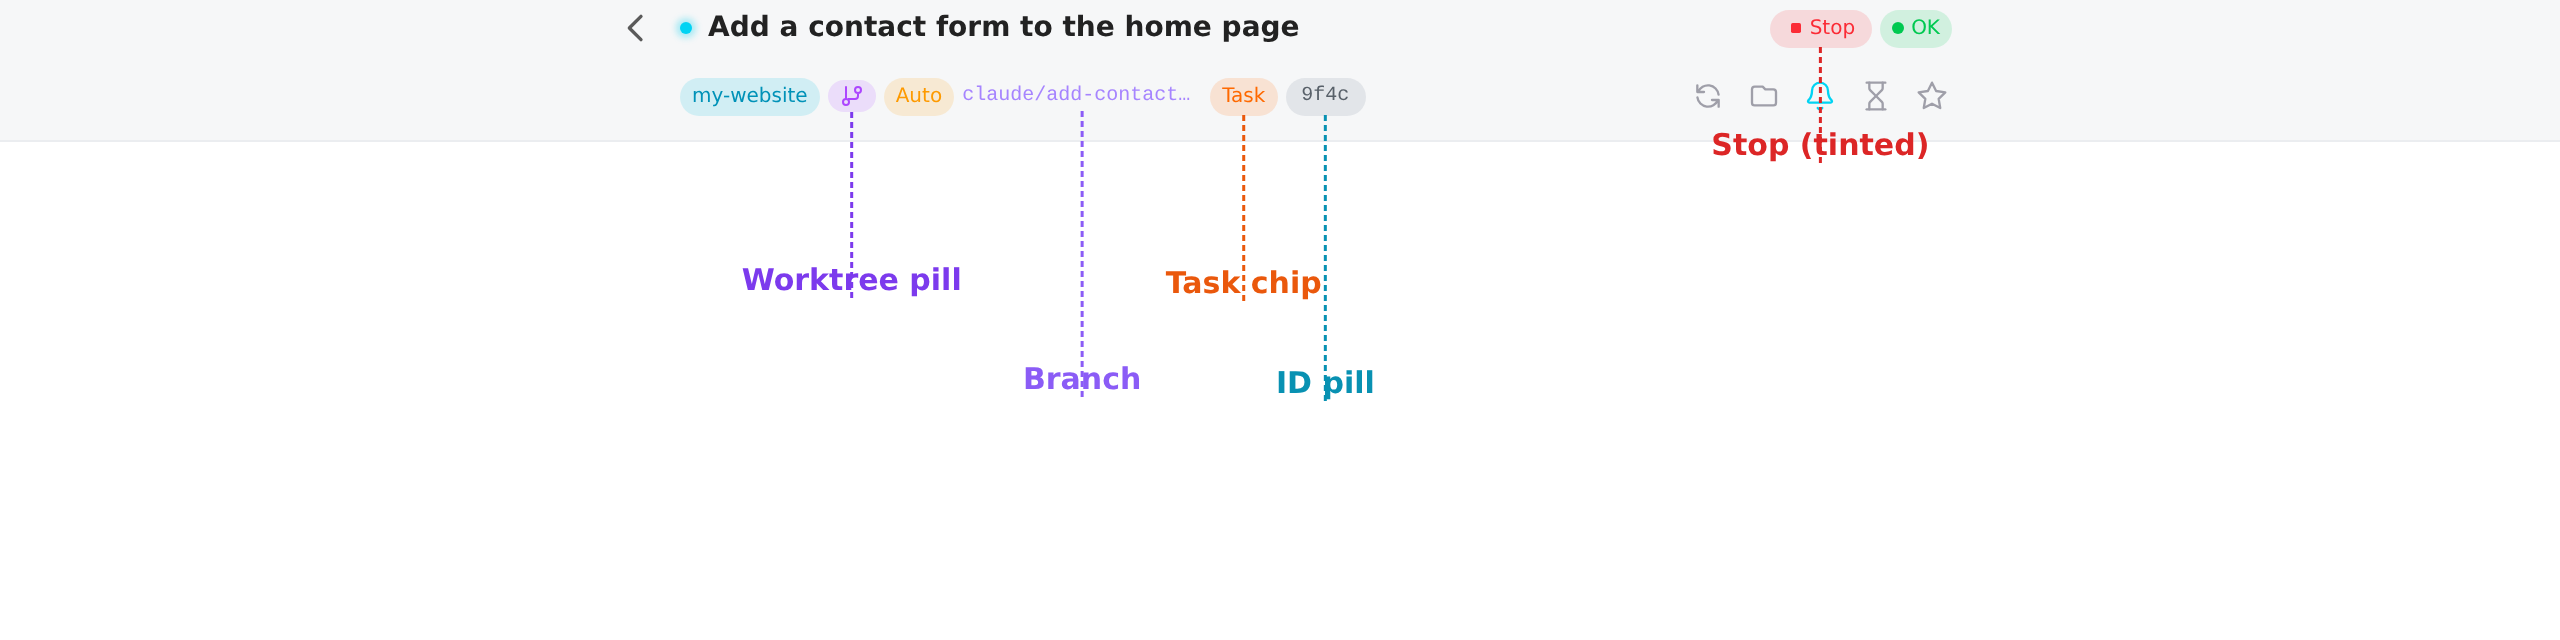
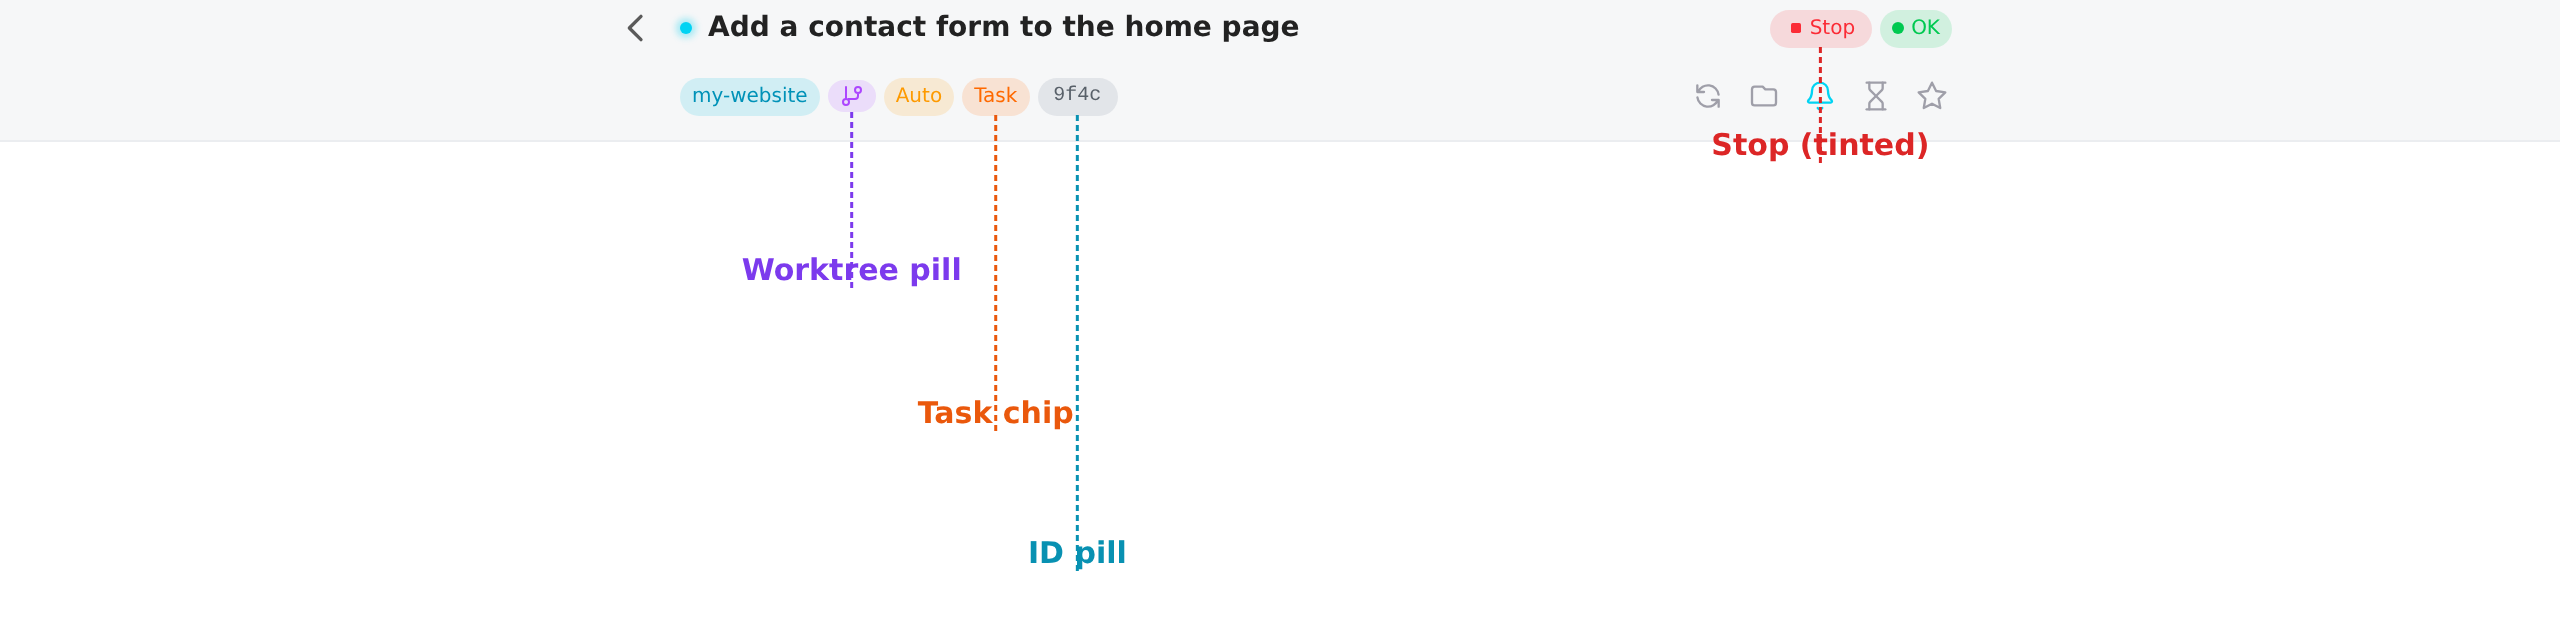
[frontend] chat header: drop branch text from row 2 tag strip
Branch name was rendered as a violet truncated text next to the worktree
pill, adding noise without value (the worktree pill already implies the
branch and the project tab shows full git status). Removed the
`{agent.branch && ...}` block from `AgentChatPage` row 2.

Updated README + getting-started (en/zh) tag-strip descriptions and
re-shot the annotated chat-header screenshot to drop the Branch label.

diff --git a/frontend/src/pages/AgentChatPage.jsx b/frontend/src/pages/AgentChatPage.jsx
@@ -3717,11 +3717,6 @@ export default function AgentChatPage({ theme, onToggleTheme, agentId: propAgent
                   Auto
                 </span>
               )}
-              {agent.branch && (
-                <span className="shrink-0 text-[10px] text-violet-400 font-mono truncate max-w-[120px]">
-                  {agent.branch}
-                </span>
-              )}
               {agent.task_id && (
                 <button
                   type="button"

diff --git a/README.md b/README.md
@@ -46,7 +46,7 @@ Watch everything in real time, from desk or phone.
 - **Split screen**: 2/3/4 panes side by side, each navigating independently.
 - **Attention button**: draggable FAB with a cyan unread badge. Tap for the oldest unread (FIFO), long-press for split screen.
 - **Rich chat**: markdown, inline media, interactive cards for tool approvals and plan review.
-- **Compact chat header**: status dot next to the title, tinted Stop / Resume / OK pills on row 1; project / worktree icon-pill / Auto / branch / Task / 4-char id pill collapsed into one tag row underneath. Hover or long-press the id pill for a `xylo id:` popover, double-click to copy; same interaction on the worktree pill.
+- **Compact chat header**: status dot next to the title, tinted Stop / Resume / OK pills on row 1; project / worktree icon-pill / Auto / Task / 4-char id pill collapsed into one tag row underneath. Hover or long-press the id pill for a `xylo id:` popover, double-click to copy; same interaction on the worktree pill.
 
   ![Chat header](docs/getting-started/12-chat-header.png)
 - **Dual-directional CLI sync**: CLI sessions show up in the web app; web sessions are resumable from the CLI via `tmux attach -t xy-<id>` (legacy `ah-` still recognized).

diff --git a/docs/getting-started.md b/docs/getting-started.md
@@ -130,7 +130,7 @@ If you dispatched, you're now in the agent's chat view.
 The header is two rows:
 
 - **Row 1** — status dot next to the title; on the right, tinted action pills (red **Stop** / cyan **Resume** / green **OK**) and an icon toolbar (refresh, files, notifications, schedule, star).
-- **Row 2** — a single tag strip: project • **worktree pill** (icon only — hover or long-press for a `worktree: <name>` popover, double-click copies) • **Auto** chip (when Auto mode is on) • branch (violet text) • **Task chip** (orange, opens the task card) • **ID pill** (4-char monospace — same hover/long-press = popover, double-click = copy).
+- **Row 2** — a single tag strip: project • **worktree pill** (icon only — hover or long-press for a `worktree: <name>` popover, double-click copies) • **Auto** chip (when Auto mode is on) • **Task chip** (orange, opens the task card) • **ID pill** (4-char monospace — same hover/long-press = popover, double-click = copy).
 
 From here you can:
 
